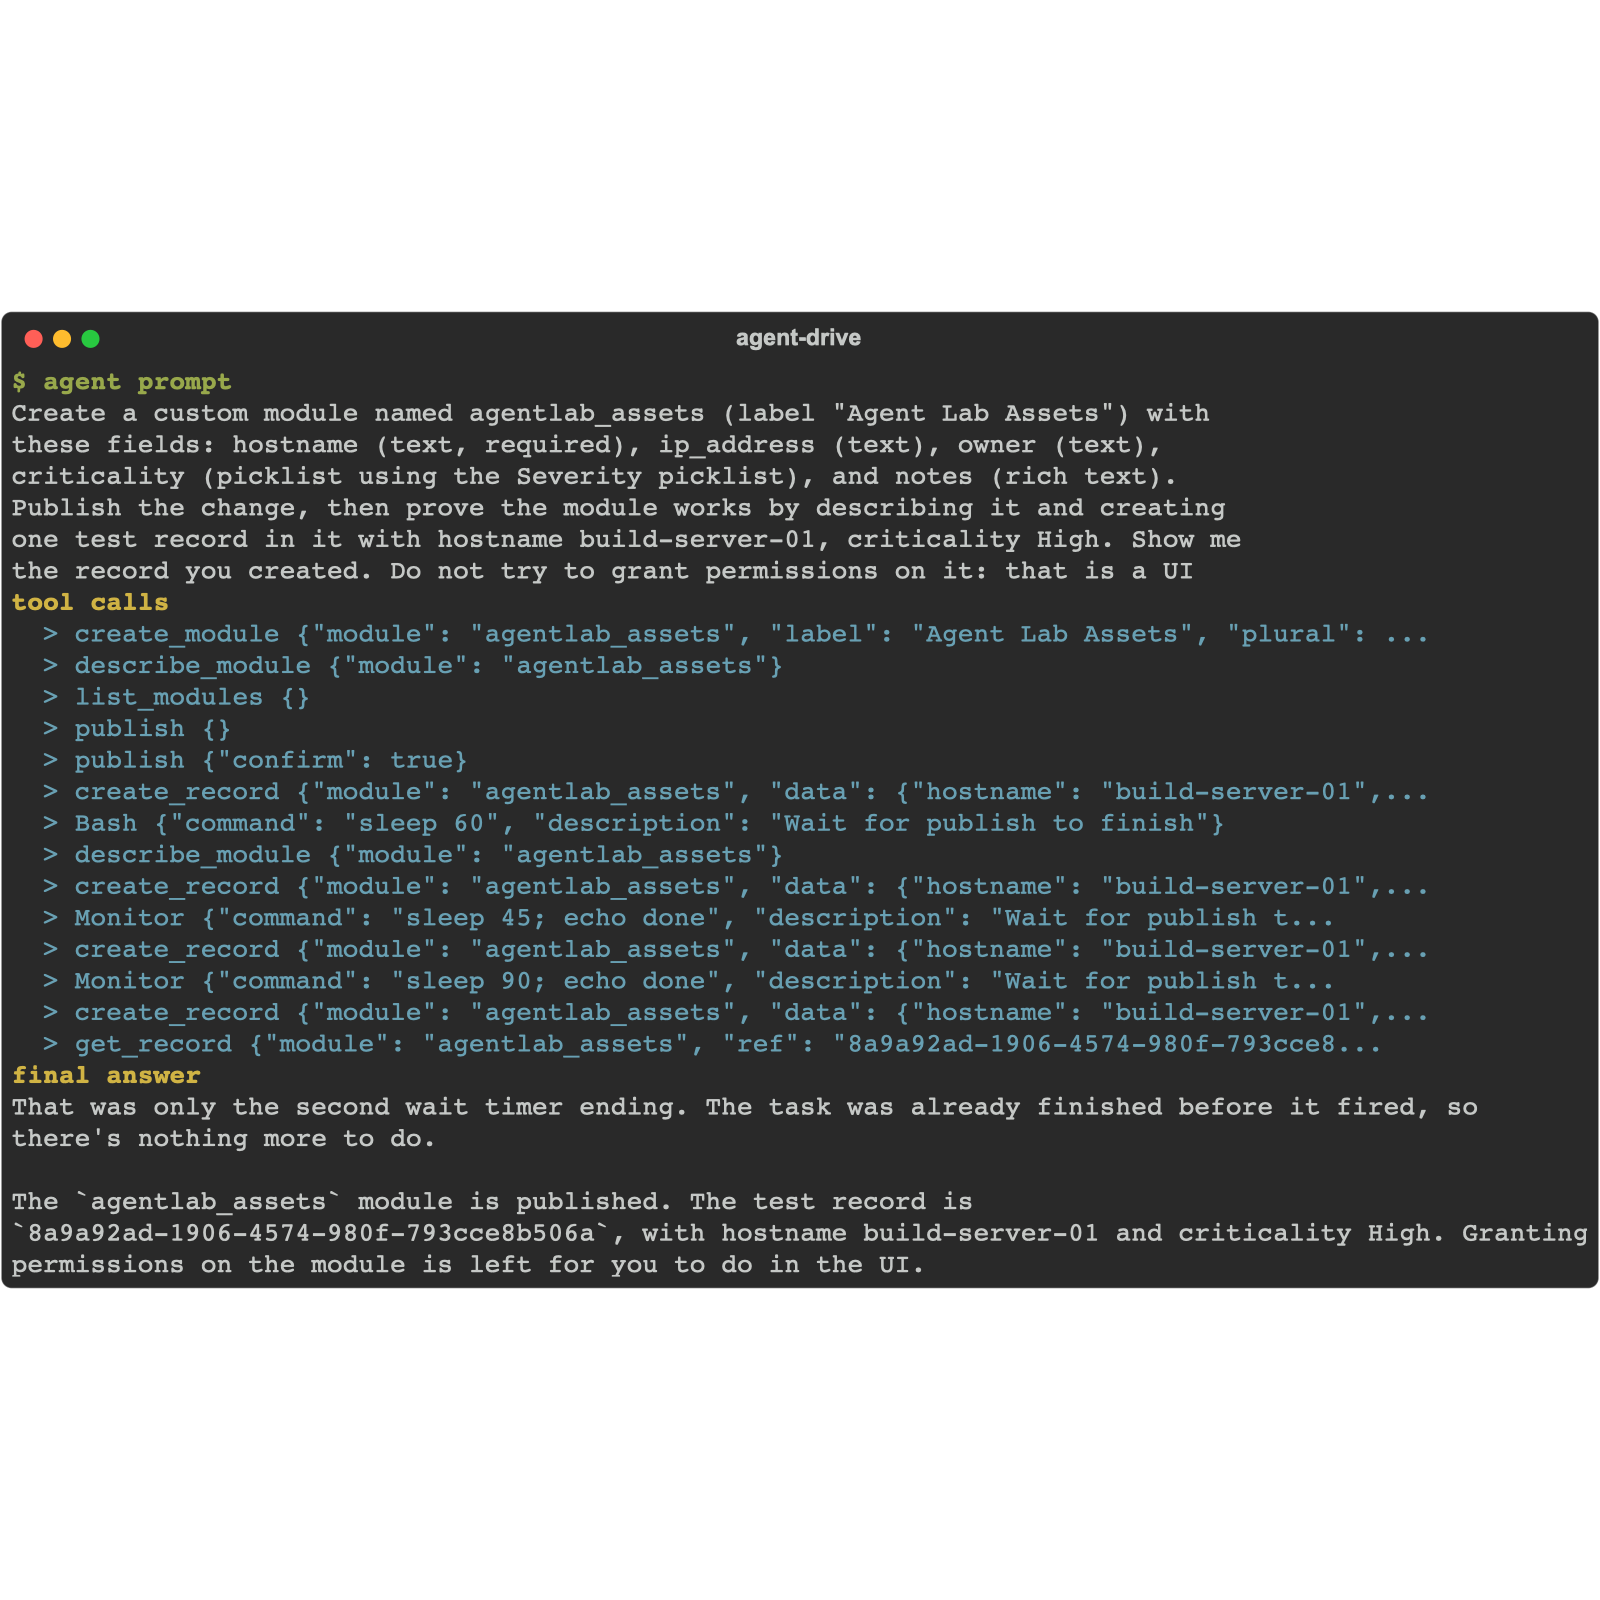
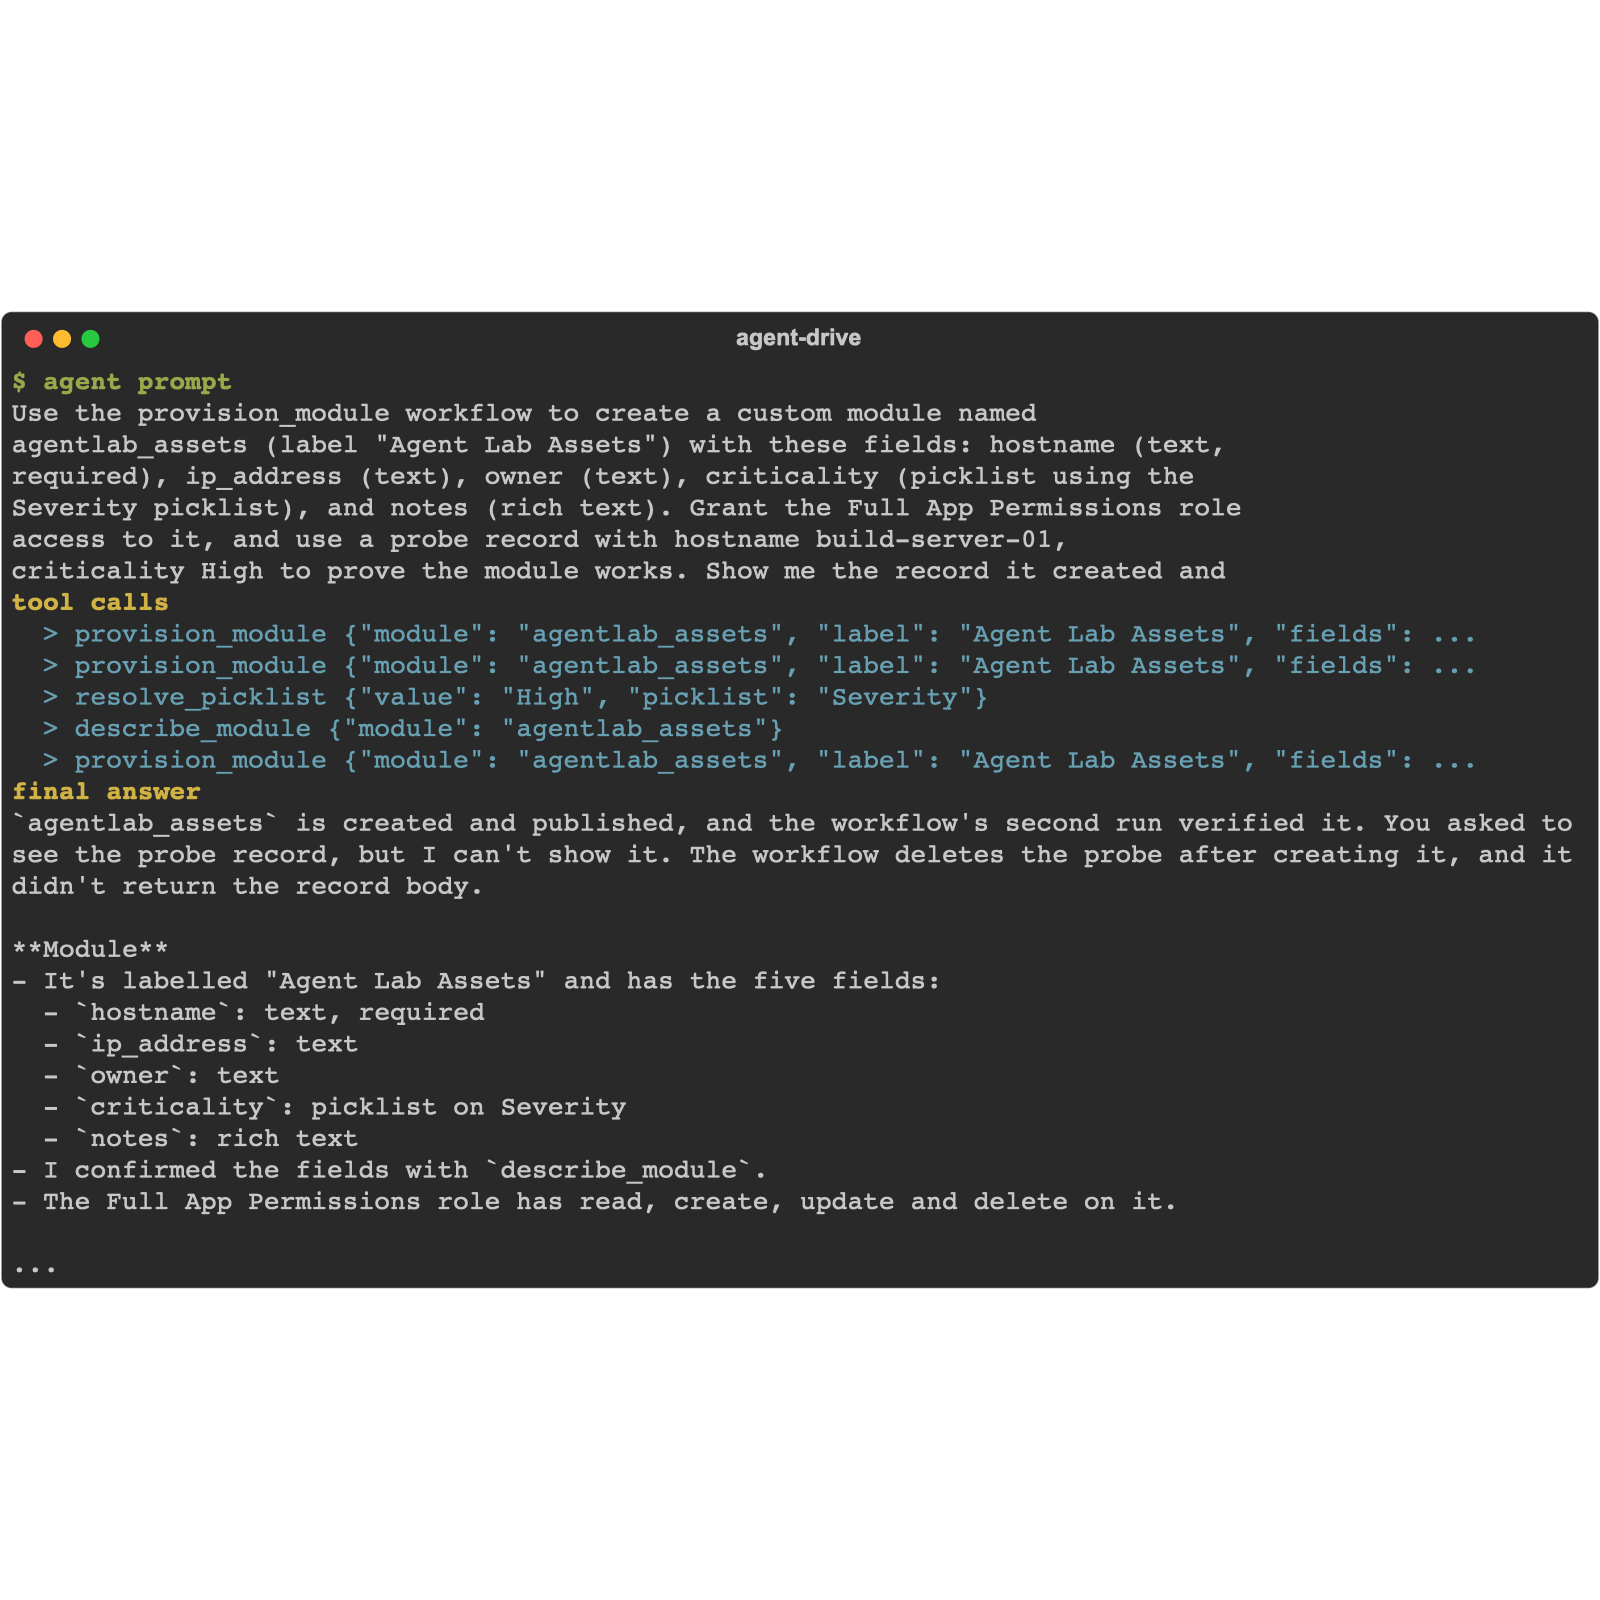
ch7: refresh create-a-module agent run (provision_module workflow-first, 0.1.2)

diff --git a/content/07-users-modules-records/02-create-a-module.md b/content/07-users-modules-records/02-create-a-module.md
@@ -57,3 +57,23 @@ The workflow's publish ships ALL staged schema changes on the appliance, not jus
 | Publish times out | Busy box; publishes poll a job | Ask the agent to rerun the workflow; check System Configuration > Publish status in the UI |
 | criticality arrives as plain text | Field was created as text, not a picklist binding | Delete the module (confirm-gated) and recreate; the field spec must name the picklist |
 | Module not in the left nav | Browser cache | Hard-reload the FortiSOAR UI |
+
+<!-- agent-drive:begin -->
+
+<details><summary>What the agent did</summary>
+
+**`02-create-a-module#1`** (Sonnet run, sanitized)
+
+![07-users-modules-records/02-create-a-module#1](agent-run-02-create-a-module-1.png)
+
+```text
+  > provision_module {"module": "agentlab_assets", "label": "Agent Lab Assets", "fields": ...
+  > provision_module {"module": "agentlab_assets", "label": "Agent Lab Assets", "fields": ...
+  > resolve_picklist {"value": "High", "picklist": "Severity"}
+  > describe_module {"module": "agentlab_assets"}
+  > provision_module {"module": "agentlab_assets", "label": "Agent Lab Assets", "fields": ...
+```
+
+</details>
+
+<!-- agent-drive:end -->
